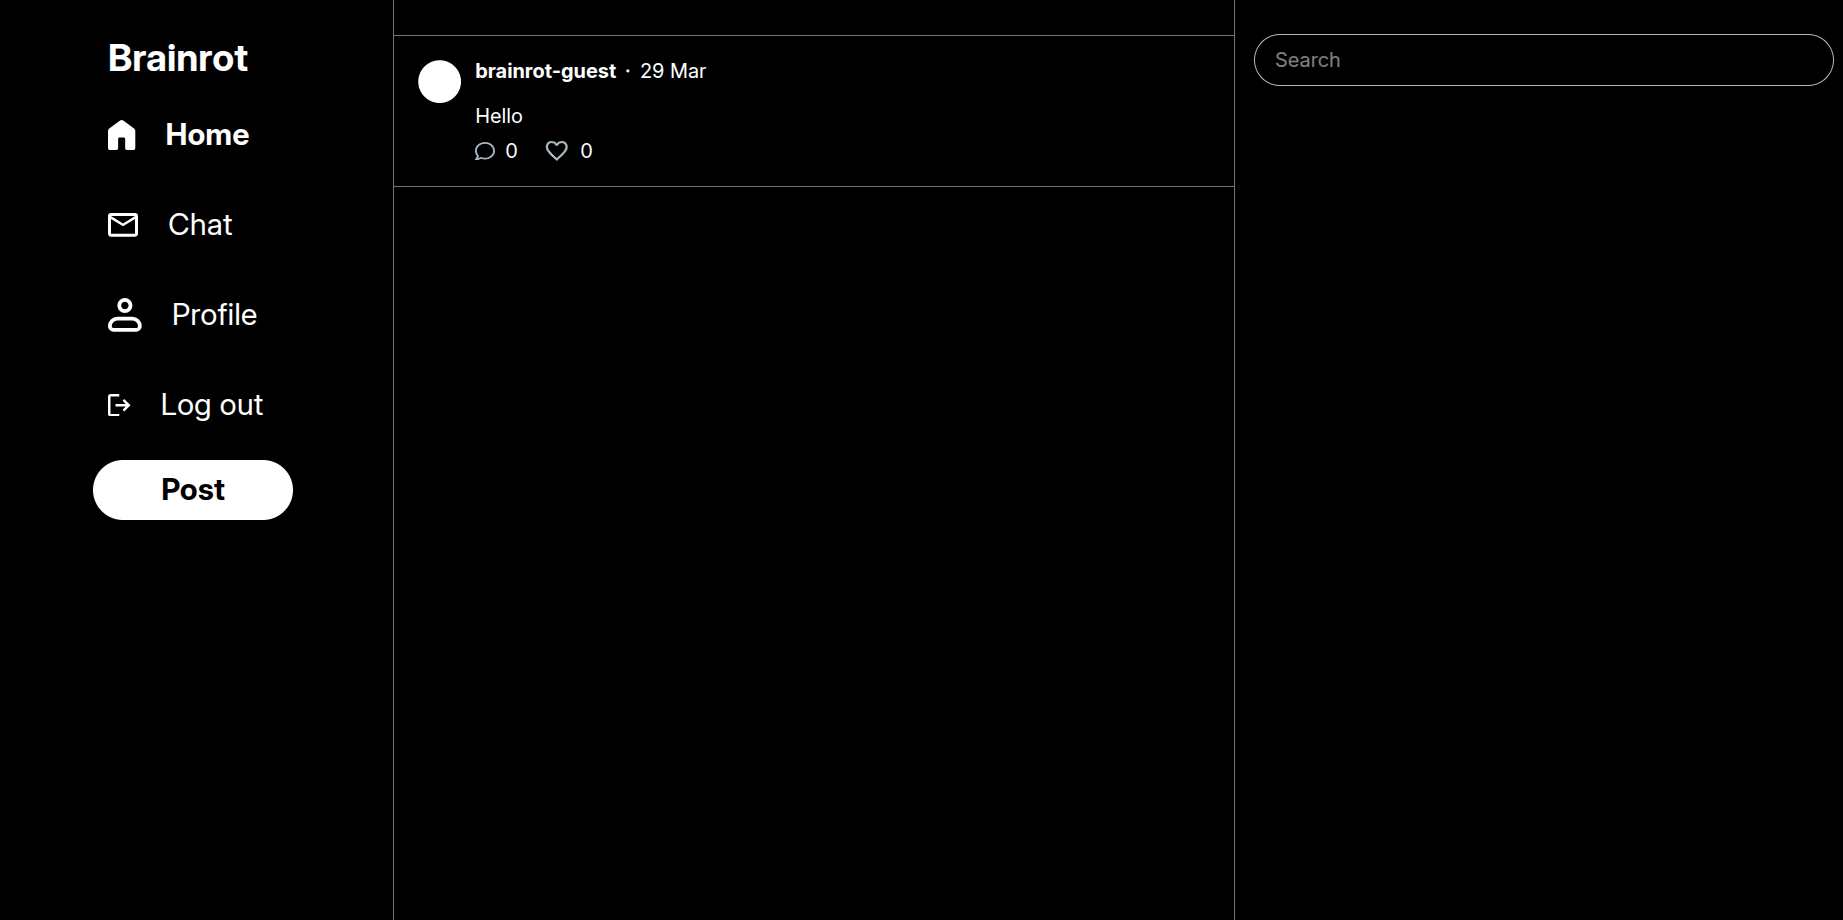
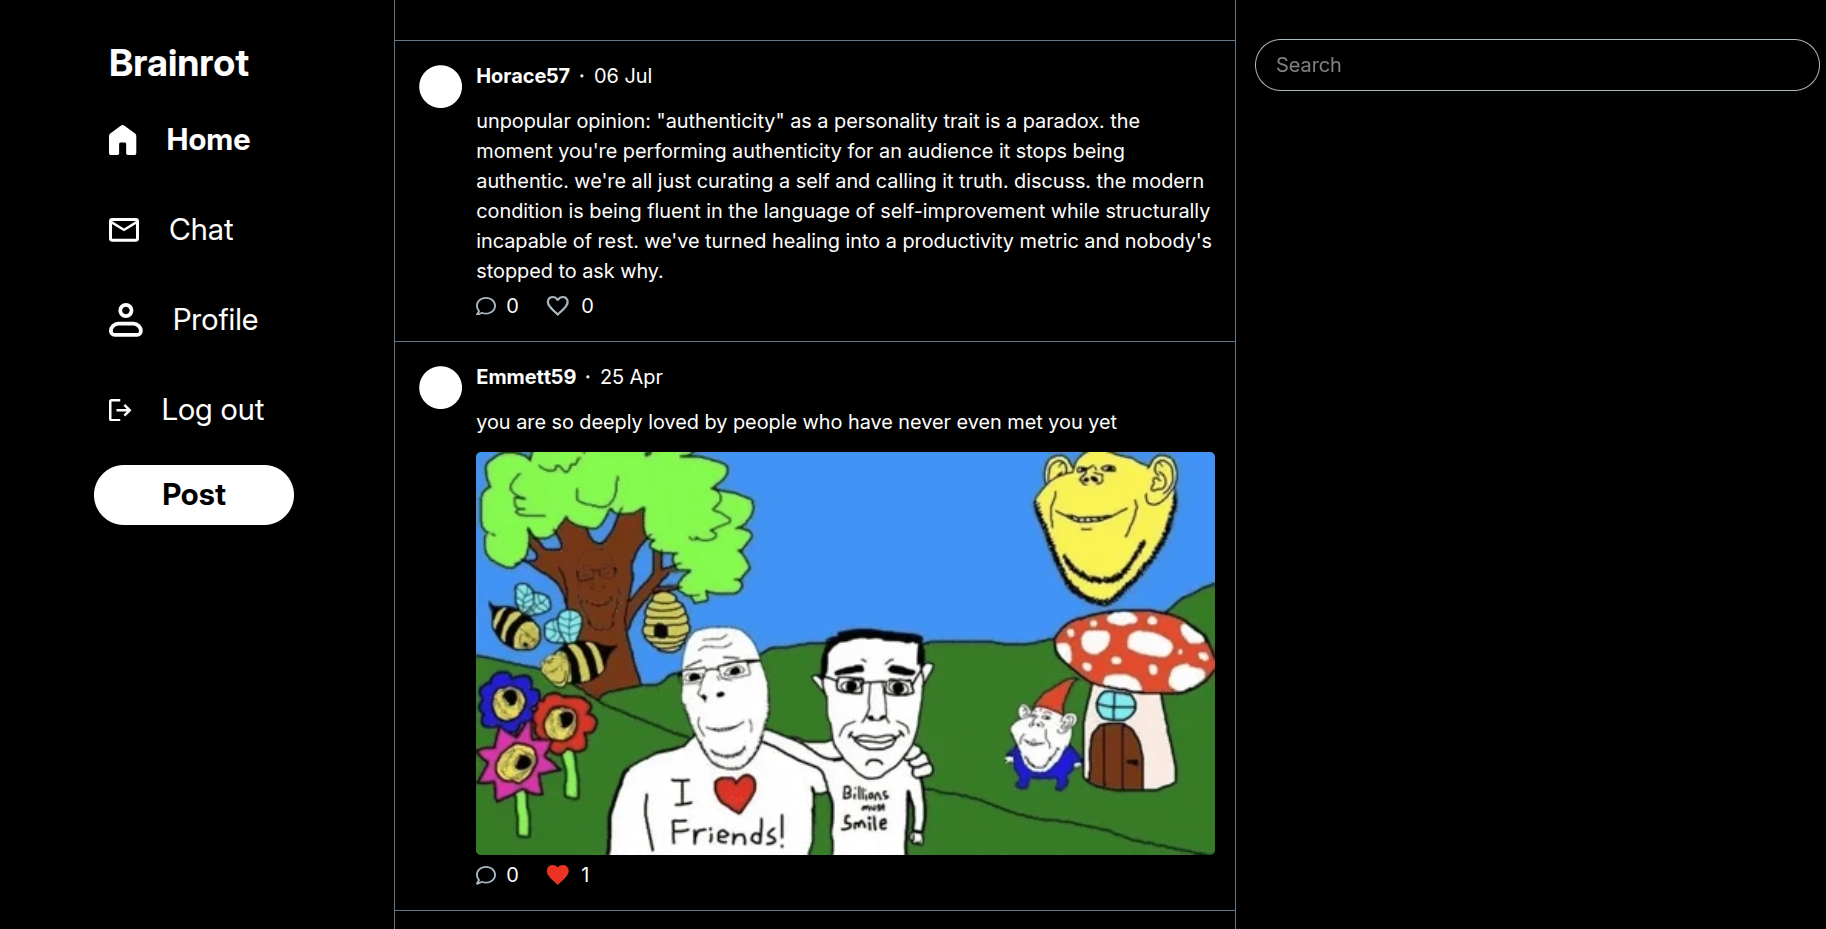
misc changes

diff --git a/src/App.jsx b/src/App.jsx
@@ -35,7 +35,7 @@ return (
           <a className='underline hover:no-underline hover:text-[#777777] transition' href='' >work</a>
         </div>
       </div>
-      <p className='whitespace-pre-line' >
+        <p className='whitespace-pre-line' >
         {
           `I am a South Africa-based software engineer who specializes in building web applications, with experience in React, Tailwind CSS, and Nodejs. 
           If you need somebody reliable to build your product, I'm here to help.`